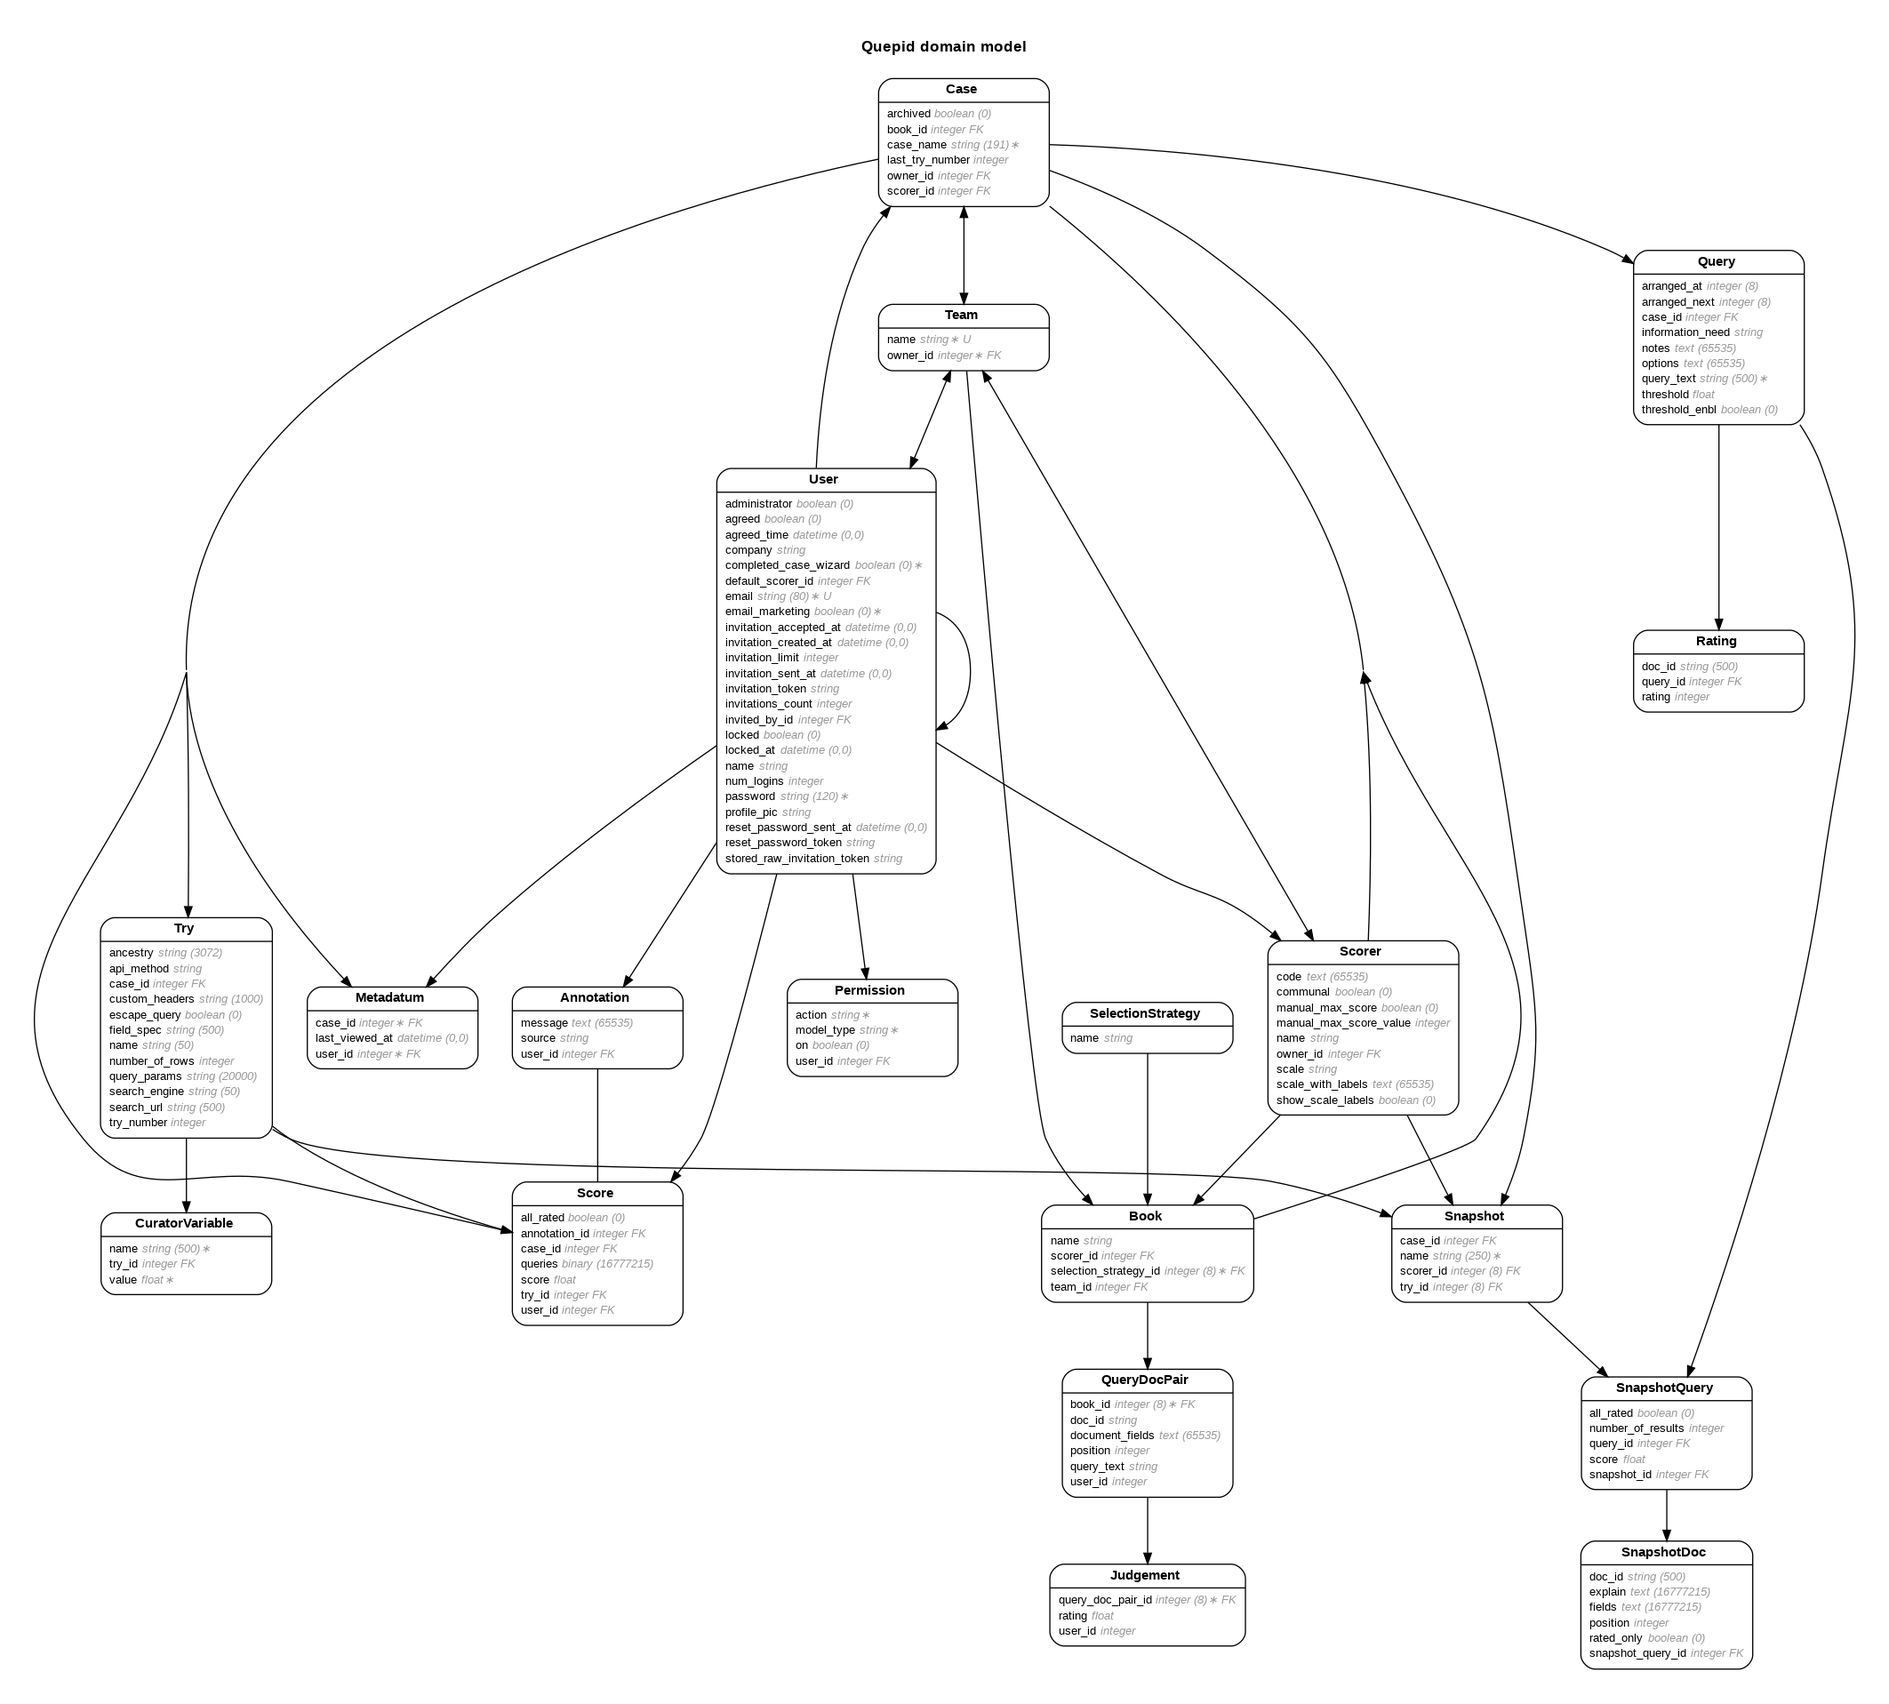
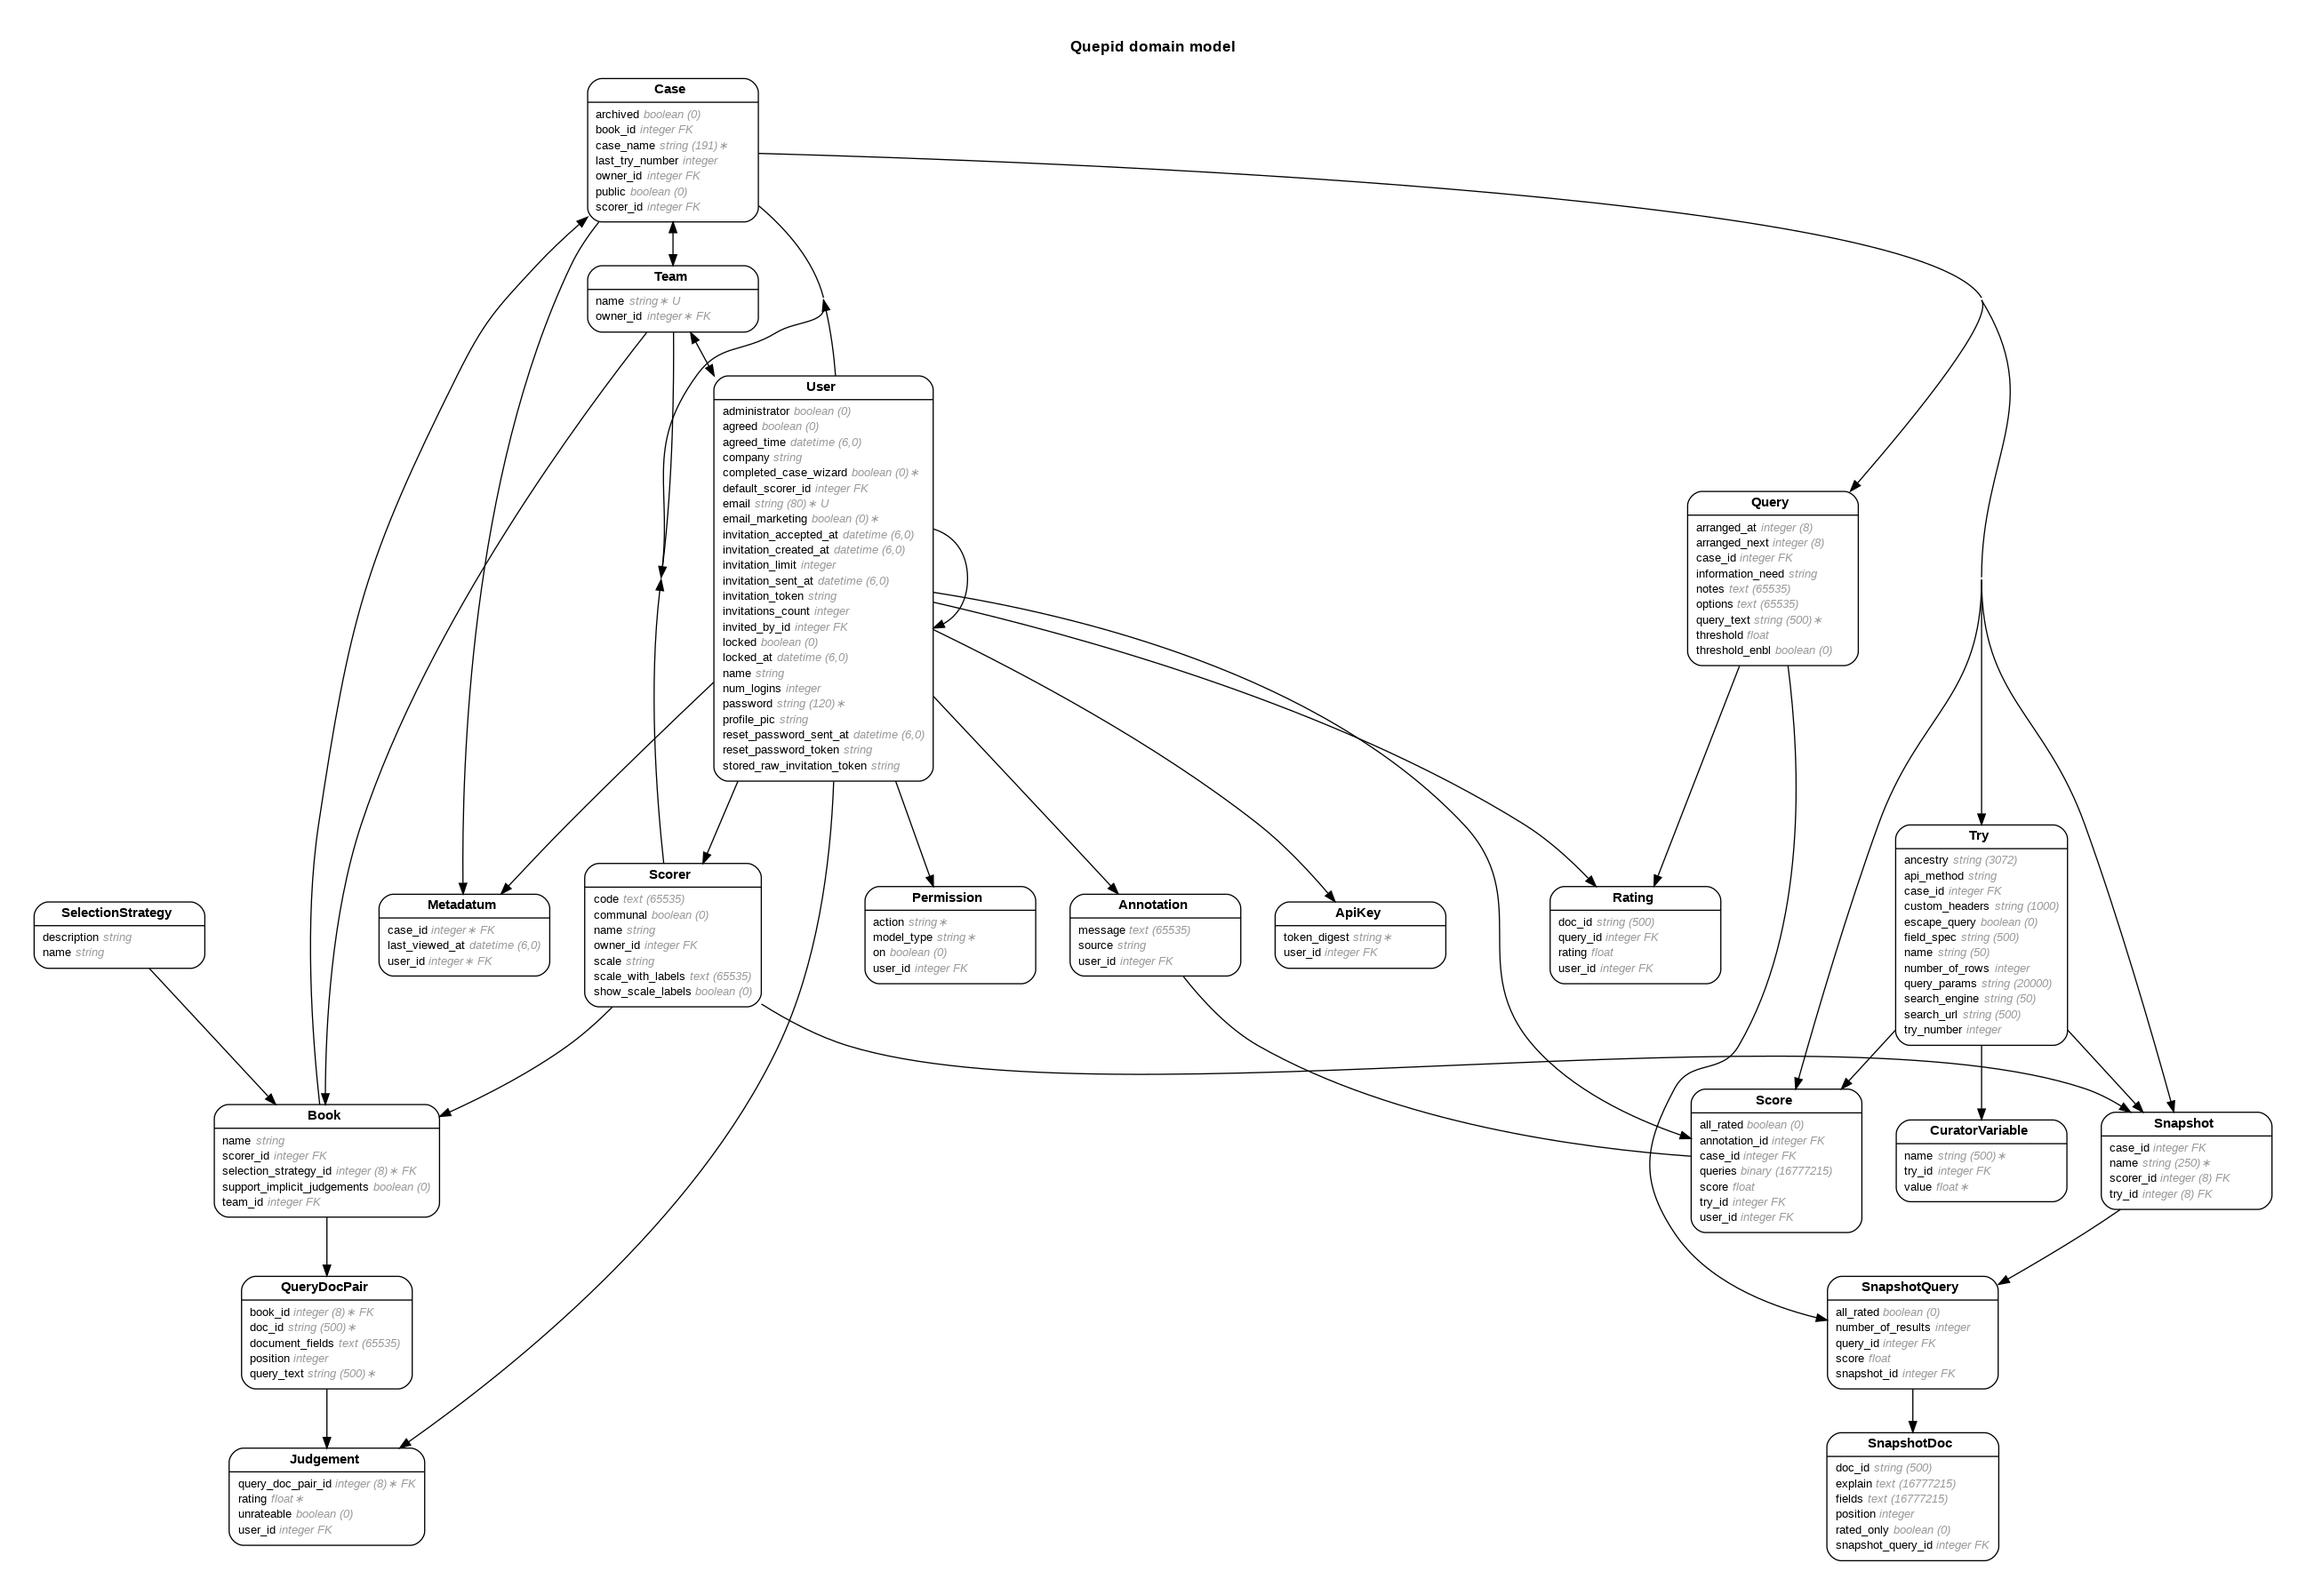
introduce tracking users on the core ratings page

diff --git a/db/schema.rb b/db/schema.rb
@@ -10,7 +10,7 @@
 #
 # It's strongly recommended that you check this file into your version control system.
 
-ActiveRecord::Schema[7.0].define(version: 2023_06_20_132103) do
+ActiveRecord::Schema[7.0].define(version: 2023_06_30_124311) do
   create_table "annotations", id: :integer, charset: "utf8mb3", force: :cascade do |t|
     t.text "message"
     t.string "source"
@@ -136,6 +136,7 @@ ActiveRecord::Schema[7.0].define(version: 2023_06_20_132103) do
     t.integer "query_id"
     t.datetime "created_at", null: false
     t.datetime "updated_at", null: false
+    t.integer "user_id"
     t.index ["doc_id"], name: "index_ratings_on_doc_id", length: 191
     t.index ["query_id"], name: "query_id"
   end

diff --git a/app/models/rating.rb b/app/models/rating.rb
@@ -10,6 +10,7 @@
 #  updated_at :datetime         not null
 #  doc_id     :string(500)
 #  query_id   :integer
+#  user_id    :integer
 #
 # Indexes
 #
@@ -23,6 +24,7 @@
 
 class Rating < ApplicationRecord
   belongs_to :query
+  belongs_to :user, optional: true
 
   # arguably we shouldn't need this, however today you can have a rating object that doesn't have a
   # value set.  fully_rated means that the rating integer has been set.

diff --git a/app/controllers/api/v1/bulk_ratings_controller.rb b/app/controllers/api/v1/bulk_ratings_controller.rb
@@ -15,6 +15,7 @@ module Api
         if params[:doc_ids].present?
           params[:doc_ids].each do |doc_id|
             rating = @query.ratings.find_or_create_by doc_id: doc_id
+            rating.user = @current_user
 
             # rating.update rating_params
             rating.rating = pluck_out_just_rating_param

diff --git a/app/controllers/api/v1/queries/ratings_controller.rb b/app/controllers/api/v1/queries/ratings_controller.rb
@@ -8,6 +8,7 @@ module Api
 
         def update
           @rating = @query.ratings.find_or_create_by doc_id: @doc_id
+          @rating.user = @current_user
 
           if @rating.update rating_params
             Analytics::Tracker.track_rating_created_event current_user, @rating

diff --git a/db/migrate/20230630124311_track_last_user_to_update_rating.rb b/db/migrate/20230630124311_track_last_user_to_update_rating.rb
@@ -1,0 +1,5 @@
+class TrackLastUserToUpdateRating < ActiveRecord::Migration[7.0]
+  def change
+     add_column :ratings, :user_id, :integer
+  end
+end
